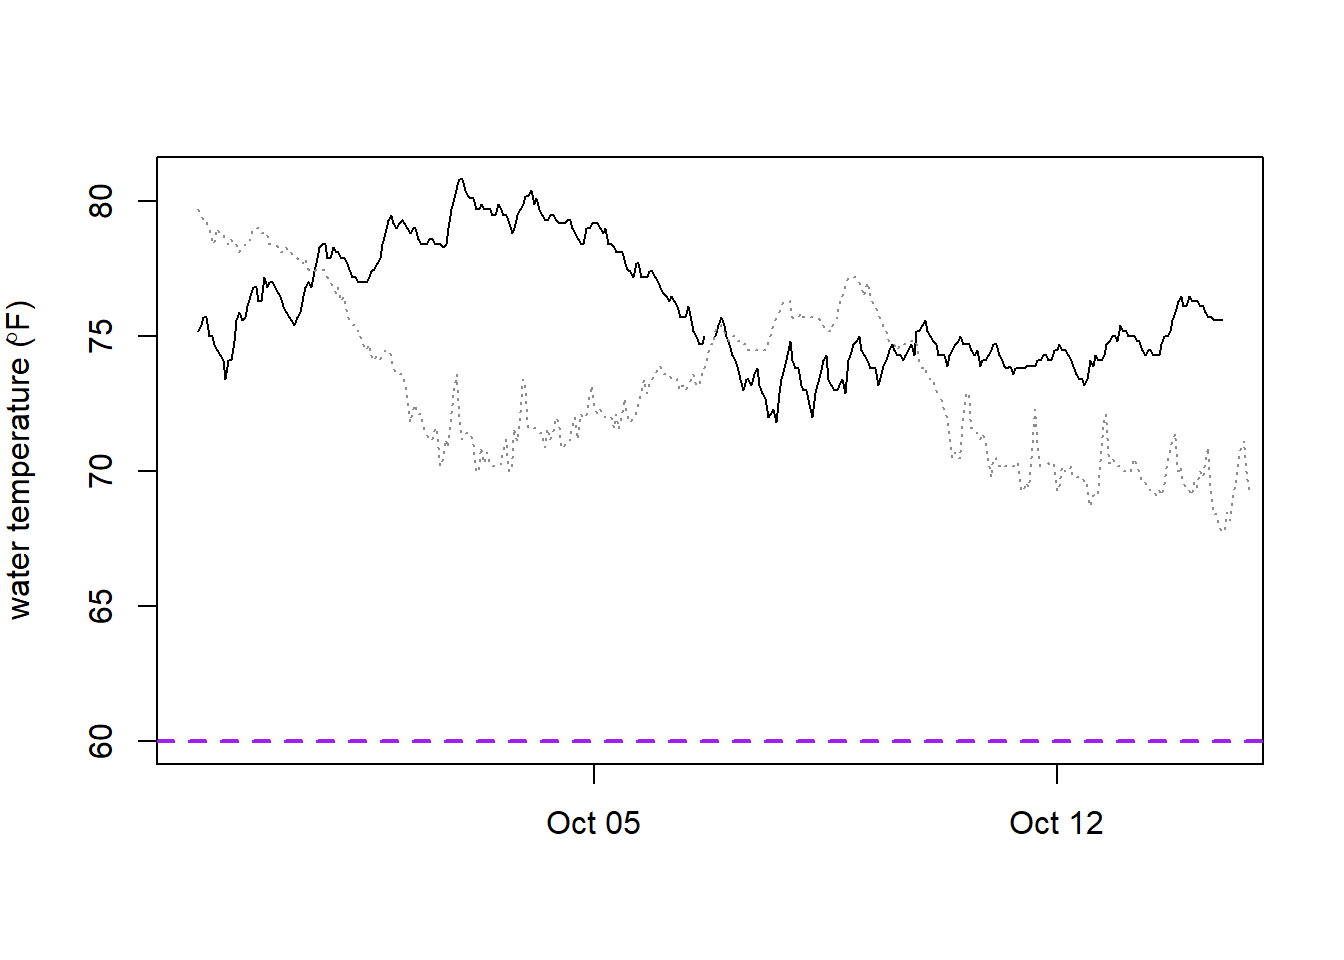
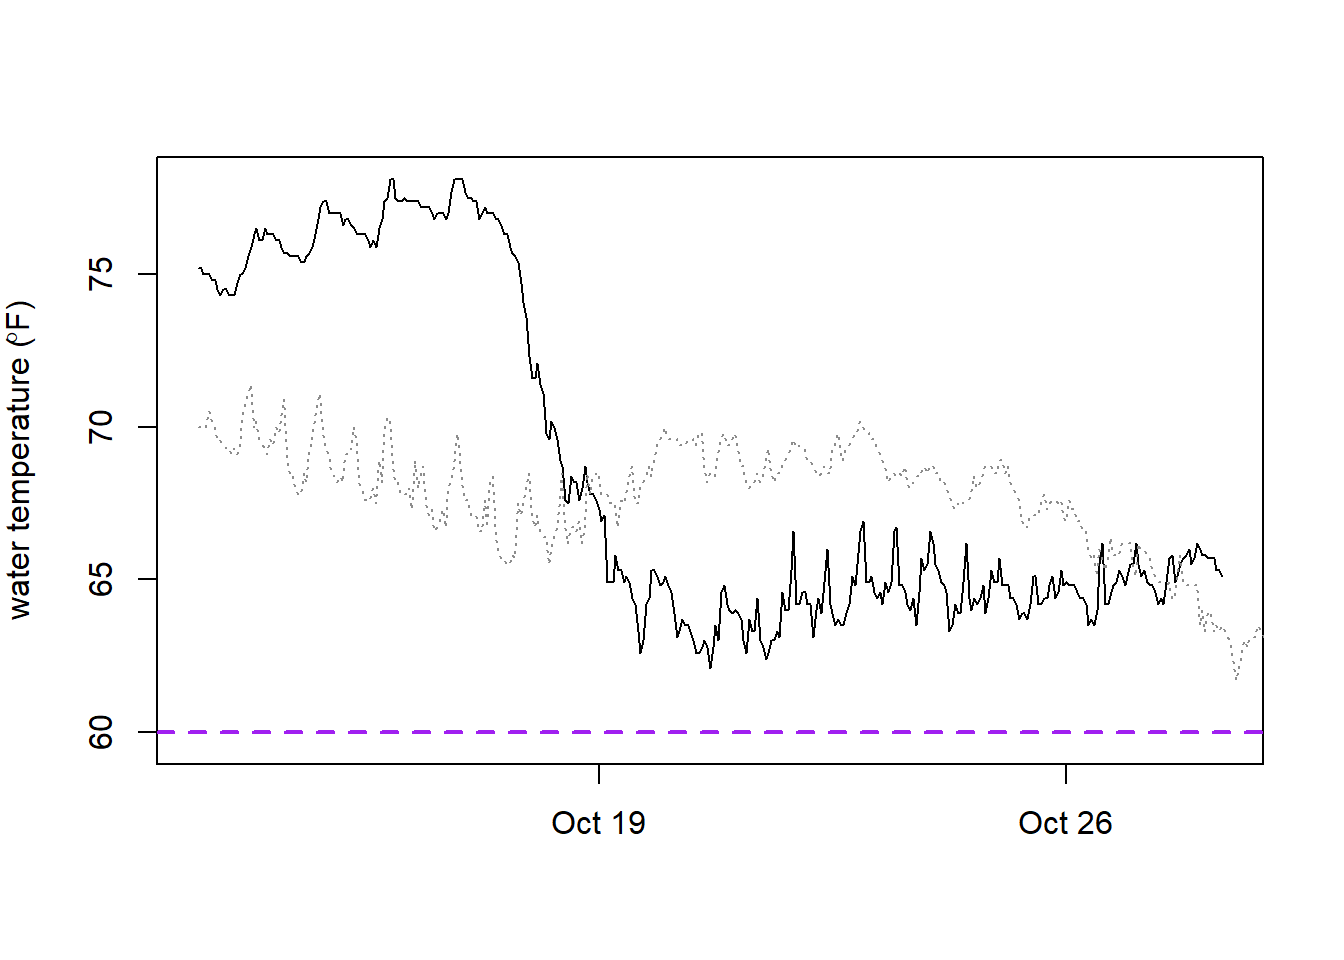
update

diff --git a/index.html b/index.html
@@ -6,7 +6,7 @@
 
 <meta name="viewport" content="width=device-width, initial-scale=1.0, user-scalable=yes">
 
-<meta name="dcterms.date" content="2026-10-14">
+<meta name="dcterms.date" content="2026-10-28">
 
 <title>water temp at 8656483</title>
 <style>
@@ -94,7 +94,7 @@ pre > code.sourceCode > span > a:first-child::before { text-decoration: underlin
     <div>
     <div class="quarto-title-meta-heading">Published</div>
     <div class="quarto-title-meta-contents">
-      <p class="date">October 14, 2026</p>
+      <p class="date">October 28, 2026</p>
     </div>
   </div>
   
